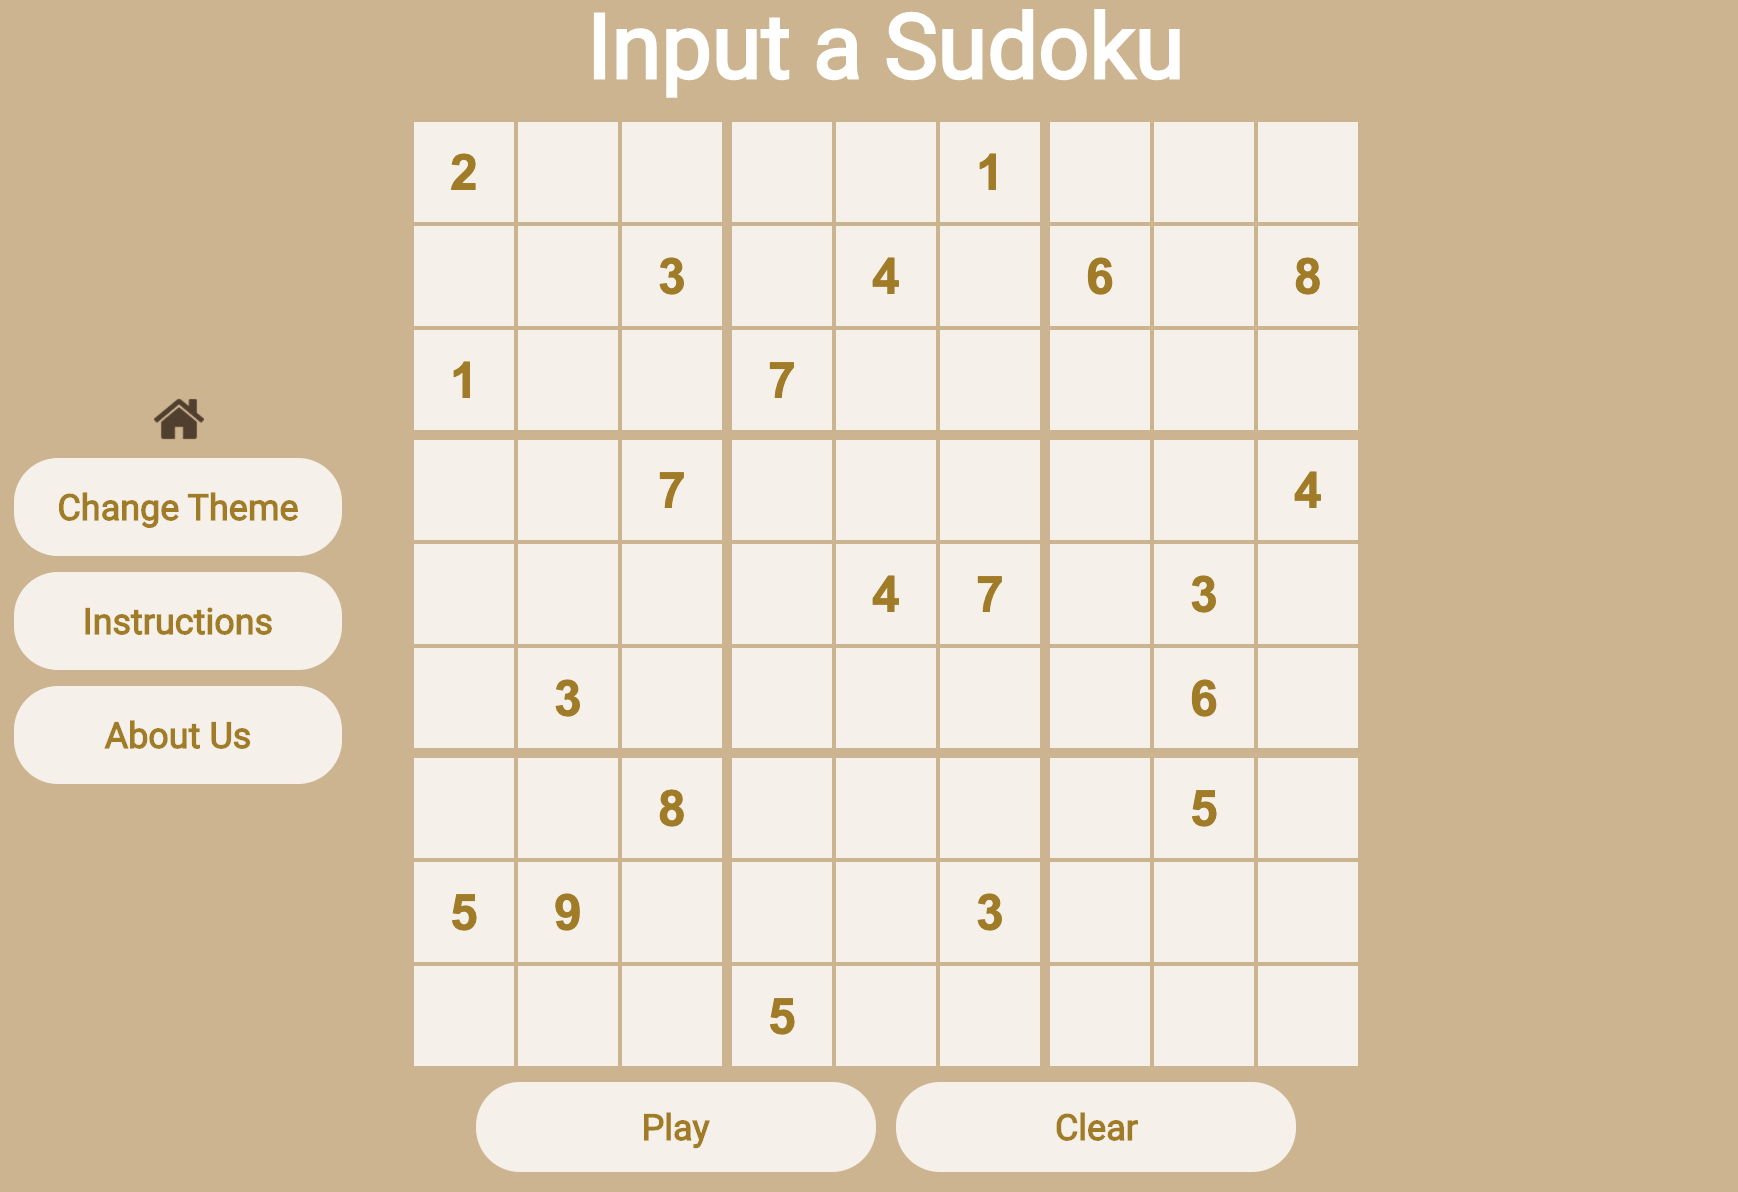
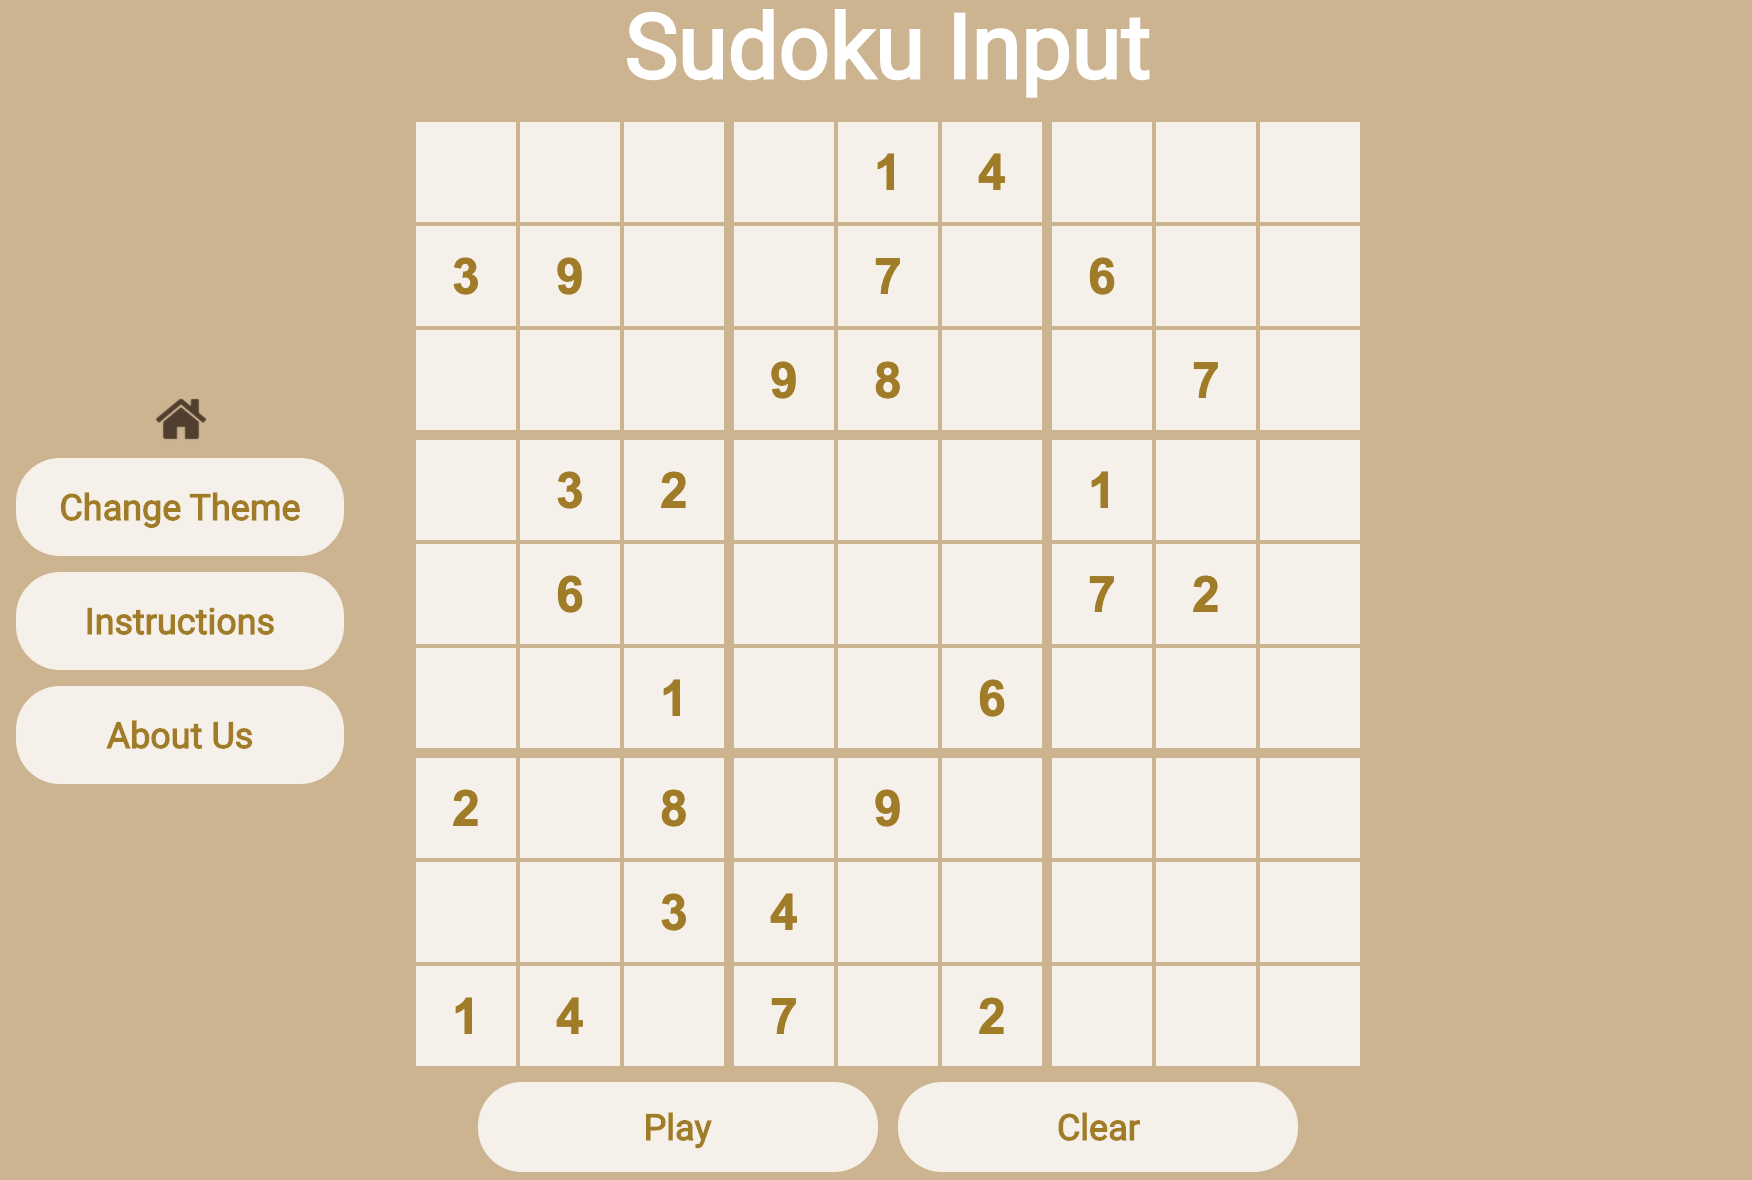
Updated Readme.md

diff --git a/templates/input_play.html b/templates/input_play.html
@@ -1,13 +1,13 @@
 {% extends 'base.html' %}
 
 {% block head %}
-<title>Input a Sudoku</title>
+<title>Sudoku Input</title>
 <script src="static/javascript/base.js" type="text/javascript"></script>
 {% endblock %}
 
 {% block body %}
 <body onload="changeTheme()">
-    <h1>Input a Sudoku</h1>
+    <h1>Sudoku Input</h1>
 
     <form action="/play" method="POST" onsubmit="return validate()">
         <div id="content">

diff --git a/app.py b/app.py
@@ -120,4 +120,4 @@ def solution():
 
 
 if __name__ == "__main__":
-    app.run(debug = True, port=7750)
+    app.run()
